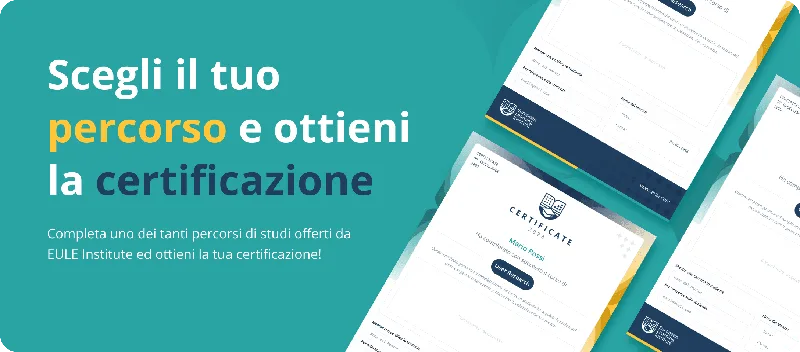
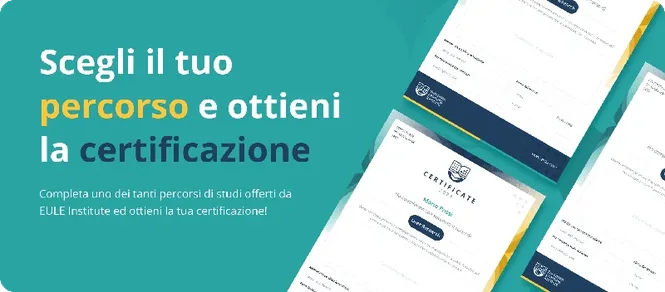
perf: fix remaining Lighthouse issues - LCP, image sizes, GA defer
- Add fetchpriority=high to logo.png (actual LCP element on mobile)
- Resize banner-certificazione.webp from 800px to 665px (displayed size)
- Resize group-hero.webp from 695px to 665px (displayed size)
- Add width/height to mentoring.avif, tanta-pratica.avif, on-demand.webp
- Defer Google Analytics loading (3s timeout or first user interaction)
- Move GA script from head to end of body on all 4 pages

diff --git a/index.html b/index.html
@@ -5,14 +5,7 @@
   <meta name="viewport" content="width=device-width, initial-scale=1.0">
   <meta name="theme-color" content="#203e5f">
 
-  <!-- Google Analytics -->
-  <script async src="https://www.googletagmanager.com/gtag/js?id=G-WBXRSMMDT9"></script>
-  <script>
-    window.dataLayer = window.dataLayer || [];
-    function gtag(){dataLayer.push(arguments);}
-    gtag('js', new Date());
-    gtag('config', 'G-WBXRSMMDT9');
-  </script>
+  <!-- Google Analytics (deferred) -->
   <title>EULE Institute | Corsi Online Certificati con Mentor Personale</title>
   <meta name="description" content="Corsi professionali 100% online con mentor personale, certificazione internazionale e supporto al placement. Dal 2016. UX/UI Design, Interior Design, Project Management.">
 
@@ -43,8 +36,8 @@
   <meta name="twitter:description" content="Corsi professionali 100% online con mentor personale e certificazione internazionale. Dal 2016. Oltre 9.000 studenti.">
   <meta name="twitter:image" content="https://euleinstitute.com/assets/banner-certificazione.webp">
 
-  <!-- LCP Preload -->
-  <link rel="preload" as="image" href="assets/group-hero.webp" fetchpriority="high" type="image/webp">
+  <!-- Preload hero image -->
+  <link rel="preload" as="image" href="assets/group-hero.webp" type="image/webp">
 
   <!-- Preconnect -->
   <link rel="dns-prefetch" href="//fonts.googleapis.com">
@@ -322,7 +315,7 @@
       <div class="flex items-center justify-between h-16 md:h-18">
         <!-- Logo -->
         <a href="#" class="flex items-center gap-2 shrink-0">
-          <img src="assets/logo.png" alt="EULE Institute - European Learning Institute" class="h-10 w-auto" width="293" height="112">
+          <img src="assets/logo.png" alt="EULE Institute - European Learning Institute" class="h-10 w-auto" width="293" height="112" fetchpriority="high">
         </a>
 
         <!-- Desktop Nav -->
@@ -423,7 +416,7 @@
 
         <!-- Visual -->
         <div class="lg:col-span-2 fade-up">
-          <img src="assets/group-hero.webp" alt="Studentessa laureata EULE Institute con dashboard corsi, video call mentor e progressi" class="w-full max-w-md lg:max-w-none mx-auto drop-shadow-2xl" width="695" height="672" fetchpriority="high">
+          <img src="assets/group-hero.webp" alt="Studentessa laureata EULE Institute con dashboard corsi, video call mentor e progressi" class="w-full max-w-md lg:max-w-none mx-auto drop-shadow-2xl" width="665" height="642" fetchpriority="high">
         </div>
       </div>
     </div>
@@ -537,7 +530,7 @@
       <div class="grid grid-cols-1 lg:grid-cols-2 gap-8 items-center mb-12 fade-up">
         <!-- Banner certificazione a sinistra -->
         <a href="#contatti" class="block overflow-hidden rounded-2xl hover:shadow-lg transition-shadow">
-          <img src="assets/banner-certificazione.webp" alt="Scegli il tuo percorso e ottieni la certificazione EULE Institute" class="w-full h-auto" width="800" height="352" loading="lazy">
+          <img src="assets/banner-certificazione.webp" alt="Scegli il tuo percorso e ottieni la certificazione EULE Institute" class="w-full h-auto" width="665" height="292" loading="lazy">
         </a>
         <!-- Titolo + descrizione + tabs a destra -->
         <div>
@@ -738,7 +731,7 @@
                 <p class="text-gray-500 text-sm leading-relaxed">Un Mentor Senior a tua disposizione ti aiutera' durante il corso con <strong class="text-deep-blue">chiamate Skype illimitate</strong> private (non di gruppo) e con le <strong class="text-deep-blue">video correzioni degli esercizi</strong>.</p>
               </div>
               <div class="rounded-xl overflow-hidden flex items-center">
-                <img src="assets/mentoring.avif" alt="Sessione di mentoring online con mentor EULE Institute" class="w-full h-auto rounded-xl" loading="lazy">
+                <img src="assets/mentoring.avif" alt="Sessione di mentoring online con mentor EULE Institute" class="w-full h-auto rounded-xl" width="800" height="533" loading="lazy">
               </div>
             </div>
           </div>
@@ -753,7 +746,7 @@
                 <p class="text-gray-400 text-xs italic leading-relaxed">200 ore tra lezioni scritte, video ed esercitazioni fruibili subito dopo l'iscrizione al corso.</p>
               </div>
               <div class="rounded-xl overflow-hidden flex items-center">
-                <img src="assets/tanta-pratica.avif" alt="Studente che lavora su un progetto Figma" class="w-full h-auto rounded-xl" loading="lazy">
+                <img src="assets/tanta-pratica.avif" alt="Studente che lavora su un progetto Figma" class="w-full h-auto rounded-xl" width="800" height="450" loading="lazy">
               </div>
             </div>
           </div>
@@ -1091,7 +1084,7 @@
 
         <!-- Immagine -->
         <div>
-          <img src="assets/on-demand.webp" alt="Studenti EULE Institute - Corsi online on-demand" class="w-full h-auto rounded-2xl shadow-xl" loading="lazy">
+          <img src="assets/on-demand.webp" alt="Studenti EULE Institute - Corsi online on-demand" class="w-full h-auto rounded-2xl shadow-xl" width="1200" height="825" loading="lazy">
         </div>
 
       </div>
@@ -1389,6 +1382,27 @@
     }, observerOptions);
 
     fadeElements.forEach(el => fadeObserver.observe(el));
+  </script>
+
+  <!-- Google Analytics (deferred until after page interaction) -->
+  <script>
+    function loadGA() {
+      if (window._gaLoaded) return;
+      window._gaLoaded = true;
+      var s = document.createElement('script');
+      s.src = 'https://www.googletagmanager.com/gtag/js?id=G-WBXRSMMDT9';
+      s.async = true;
+      document.head.appendChild(s);
+      window.dataLayer = window.dataLayer || [];
+      function gtag(){dataLayer.push(arguments);}
+      window.gtag = gtag;
+      gtag('js', new Date());
+      gtag('config', 'G-WBXRSMMDT9');
+    }
+    setTimeout(loadGA, 3000);
+    ['scroll','click','touchstart','keydown'].forEach(function(e){
+      window.addEventListener(e, loadGA, {once:true,passive:true});
+    });
   </script>
 
 </body>

diff --git a/cookie-policy.html b/cookie-policy.html
@@ -3,8 +3,7 @@
 <head>
   <meta charset="UTF-8">
   <meta name="viewport" content="width=device-width, initial-scale=1.0">
-  <script async src="https://www.googletagmanager.com/gtag/js?id=G-WBXRSMMDT9"></script>
-  <script>window.dataLayer=window.dataLayer||[];function gtag(){dataLayer.push(arguments);}gtag('js',new Date());gtag('config','G-WBXRSMMDT9');</script>
+  <script>function loadGA(){if(window._gaLoaded)return;window._gaLoaded=true;var s=document.createElement('script');s.src='https://www.googletagmanager.com/gtag/js?id=G-WBXRSMMDT9';s.async=true;document.head.appendChild(s);window.dataLayer=window.dataLayer||[];function gtag(){dataLayer.push(arguments);}window.gtag=gtag;gtag('js',new Date());gtag('config','G-WBXRSMMDT9');}setTimeout(loadGA,3000);['scroll','click','touchstart','keydown'].forEach(function(e){window.addEventListener(e,loadGA,{once:true,passive:true});});</script>
   <title>Cookie Policy | EULE Institute</title>
   <meta name="description" content="Cookie Policy di EULE Institute - European Learning Institute. Informazioni sui cookie utilizzati.">
   <meta name="robots" content="noindex, follow">

diff --git a/terms-conditions.html b/terms-conditions.html
@@ -3,8 +3,7 @@
 <head>
   <meta charset="UTF-8">
   <meta name="viewport" content="width=device-width, initial-scale=1.0">
-  <script async src="https://www.googletagmanager.com/gtag/js?id=G-WBXRSMMDT9"></script>
-  <script>window.dataLayer=window.dataLayer||[];function gtag(){dataLayer.push(arguments);}gtag('js',new Date());gtag('config','G-WBXRSMMDT9');</script>
+  <script>function loadGA(){if(window._gaLoaded)return;window._gaLoaded=true;var s=document.createElement('script');s.src='https://www.googletagmanager.com/gtag/js?id=G-WBXRSMMDT9';s.async=true;document.head.appendChild(s);window.dataLayer=window.dataLayer||[];function gtag(){dataLayer.push(arguments);}window.gtag=gtag;gtag('js',new Date());gtag('config','G-WBXRSMMDT9');}setTimeout(loadGA,3000);['scroll','click','touchstart','keydown'].forEach(function(e){window.addEventListener(e,loadGA,{once:true,passive:true});});</script>
   <title>Termini e Condizioni | EULE Institute</title>
   <meta name="description" content="Termini e condizioni d'uso di EULE Institute - European Learning Institute.">
   <meta name="robots" content="noindex, follow">

diff --git a/privacy-policy.html b/privacy-policy.html
@@ -3,8 +3,7 @@
 <head>
   <meta charset="UTF-8">
   <meta name="viewport" content="width=device-width, initial-scale=1.0">
-  <script async src="https://www.googletagmanager.com/gtag/js?id=G-WBXRSMMDT9"></script>
-  <script>window.dataLayer=window.dataLayer||[];function gtag(){dataLayer.push(arguments);}gtag('js',new Date());gtag('config','G-WBXRSMMDT9');</script>
+  <script>function loadGA(){if(window._gaLoaded)return;window._gaLoaded=true;var s=document.createElement('script');s.src='https://www.googletagmanager.com/gtag/js?id=G-WBXRSMMDT9';s.async=true;document.head.appendChild(s);window.dataLayer=window.dataLayer||[];function gtag(){dataLayer.push(arguments);}window.gtag=gtag;gtag('js',new Date());gtag('config','G-WBXRSMMDT9');}setTimeout(loadGA,3000);['scroll','click','touchstart','keydown'].forEach(function(e){window.addEventListener(e,loadGA,{once:true,passive:true});});</script>
   <title>Privacy Policy | EULE Institute</title>
   <meta name="description" content="Informativa sulla privacy di EULE Institute - European Learning Institute.">
   <meta name="robots" content="noindex, follow">
